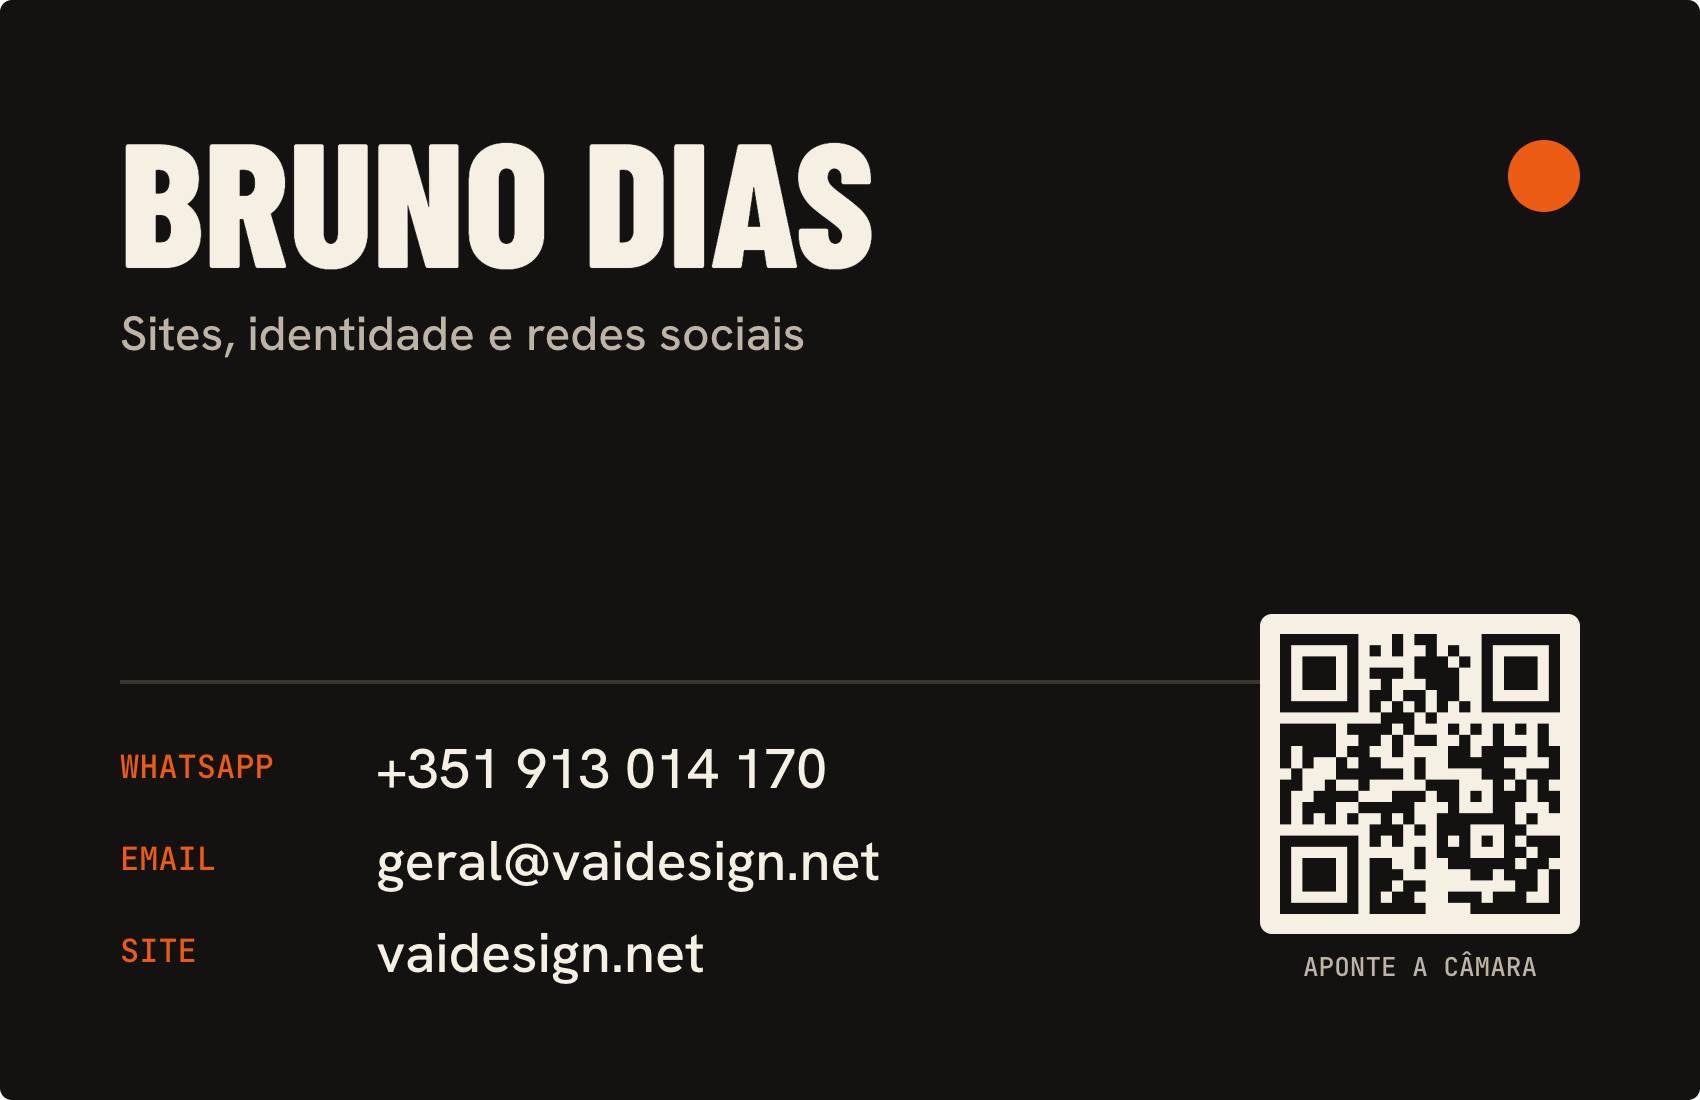
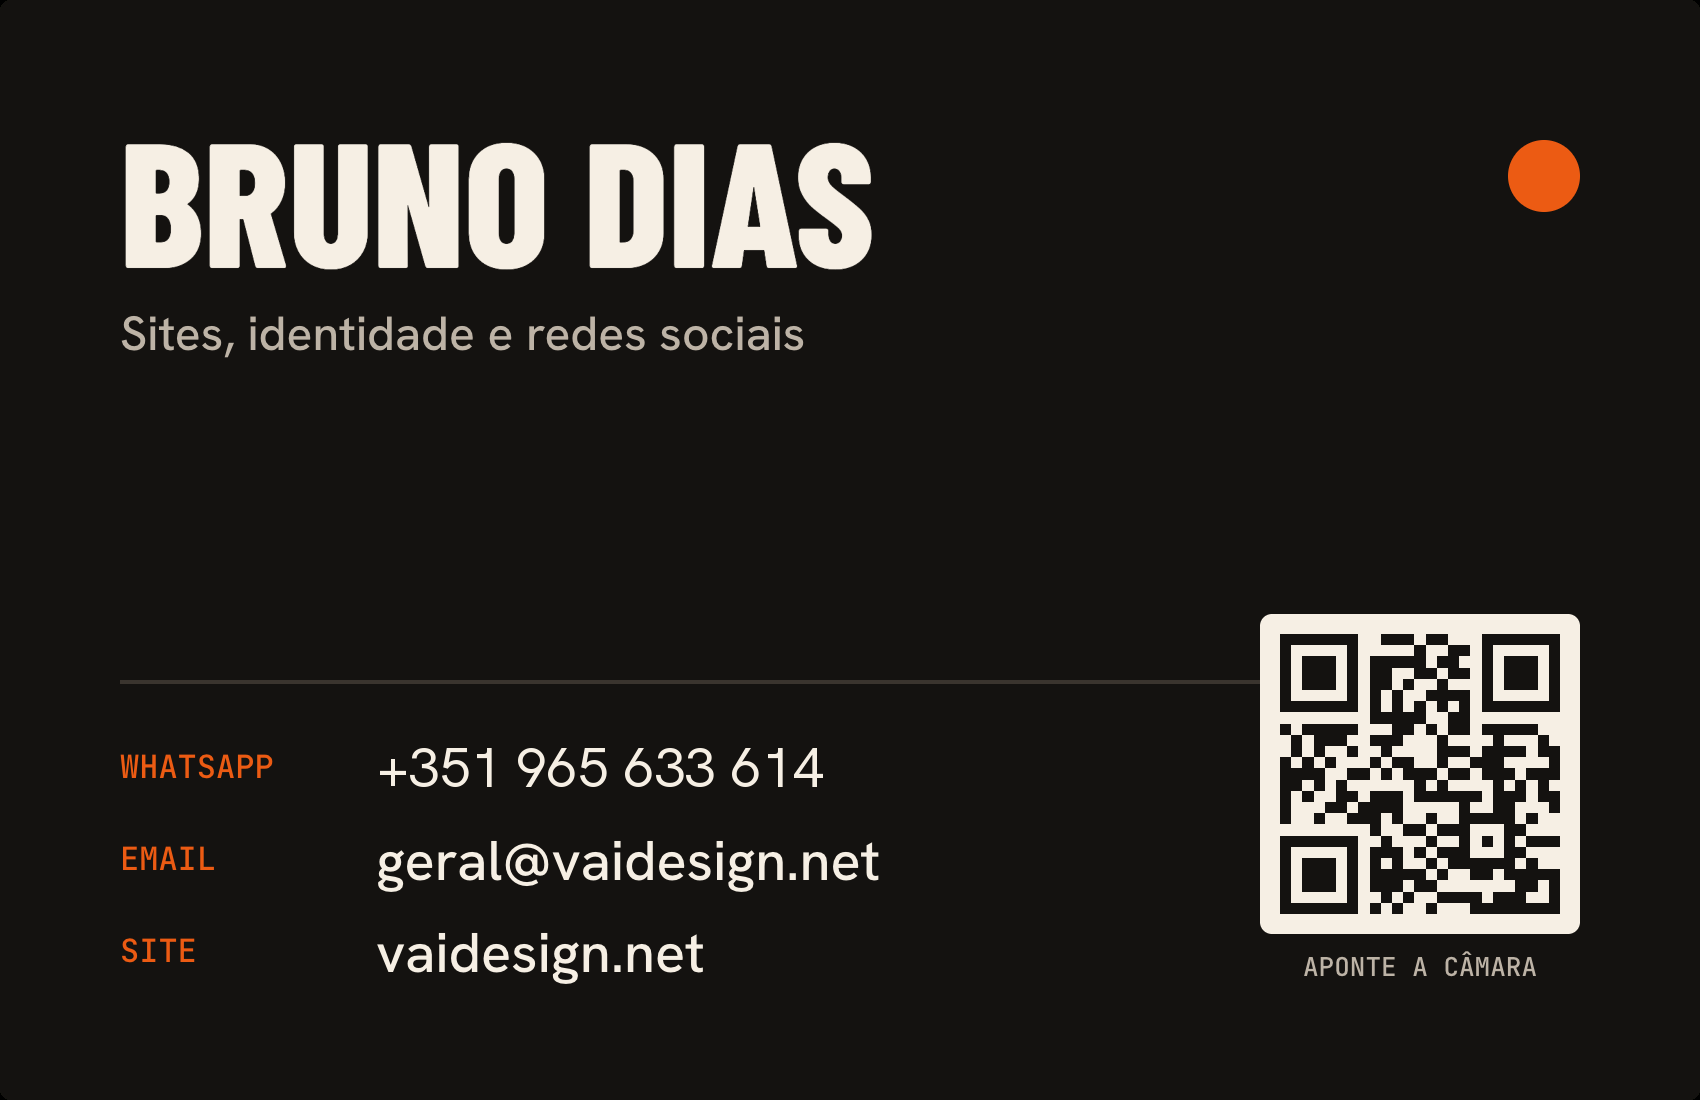
chore: switch agency WhatsApp to the new business number
Replace +351 913 014 170 with +351 965 633 614 in the site constants,
brand manual, business card back (text and QR), email signature image,
presentation deck and design notes.

Claude-Session: https://claude.ai/code/session_01ERPuTyWn5d7oHceJ5hZ3ze

diff --git a/desenhos/vaidesign/Marca.dc.html b/desenhos/vaidesign/Marca.dc.html
@@ -34,7 +34,7 @@
 <div style="position:absolute;left:28px;right:28px;bottom:28px;display:flex;flex-direction:column;gap:8px"><span style="font:800 56px/.9 'Barlow Condensed';text-transform:uppercase">Bruno Dias</span><span style="font:500 14px/1.3 'Hanken Grotesk';color:#5A5249">Sites, identidade e redes sociais à medida do seu negócio</span></div>
 </div>
 <div style="padding:8px 20px 28px;display:flex;flex-direction:column;gap:12px">
-<a href="https://wa.me/351913014170" style="height:64px;padding:0 10px 0 20px;display:flex;align-items:center;justify-content:space-between;background:#EC5B13;color:#141210;border-radius:8px;text-decoration:none"><span style="display:flex;flex-direction:column;gap:4px"><span style="font:600 12px/1 'Hanken Grotesk';letter-spacing:.1em;text-transform:uppercase">WhatsApp</span><span style="font:600 18px/1 'Hanken Grotesk'">+351 913 014 170</span></span><span style="width:44px;height:44px;border-radius:50%;border:1.5px solid #141210;display:flex;align-items:center;justify-content:center;box-sizing:border-box"><span style="font-family:'Material Symbols Outlined';font-weight:300;font-size:22px;line-height:1">arrow_forward</span></span></a>
+<a href="https://wa.me/351965633614" style="height:64px;padding:0 10px 0 20px;display:flex;align-items:center;justify-content:space-between;background:#EC5B13;color:#141210;border-radius:8px;text-decoration:none"><span style="display:flex;flex-direction:column;gap:4px"><span style="font:600 12px/1 'Hanken Grotesk';letter-spacing:.1em;text-transform:uppercase">WhatsApp</span><span style="font:600 18px/1 'Hanken Grotesk'">+351 965 633 614</span></span><span style="width:44px;height:44px;border-radius:50%;border:1.5px solid #141210;display:flex;align-items:center;justify-content:center;box-sizing:border-box"><span style="font-family:'Material Symbols Outlined';font-weight:300;font-size:22px;line-height:1">arrow_forward</span></span></a>
 <a href="mailto:geral@vaidesign.net" style="height:64px;padding:0 10px 0 20px;display:flex;align-items:center;justify-content:space-between;border:1.5px solid #141210;color:#141210;border-radius:8px;text-decoration:none;box-sizing:border-box"><span style="display:flex;flex-direction:column;gap:4px"><span style="font:600 12px/1 'Hanken Grotesk';letter-spacing:.1em;text-transform:uppercase">Email</span><span style="font:600 18px/1 'Hanken Grotesk'">geral@vaidesign.net</span></span><span style="width:44px;height:44px;border-radius:50%;border:1.5px solid #141210;display:flex;align-items:center;justify-content:center;box-sizing:border-box"><span style="font-family:'Material Symbols Outlined';font-weight:300;font-size:22px;line-height:1">arrow_forward</span></span></a>
 <a href="Inicio.dc.html" style="height:64px;padding:0 10px 0 20px;display:flex;align-items:center;justify-content:space-between;border:1.5px solid #141210;color:#141210;border-radius:8px;text-decoration:none;box-sizing:border-box"><span style="display:flex;flex-direction:column;gap:4px"><span style="font:600 12px/1 'Hanken Grotesk';letter-spacing:.1em;text-transform:uppercase">Site</span><span style="font:600 18px/1 'Hanken Grotesk'">vaidesign.net</span></span><span style="width:44px;height:44px;border-radius:50%;border:1.5px solid #141210;display:flex;align-items:center;justify-content:center;box-sizing:border-box"><span style="font-family:'Material Symbols Outlined';font-weight:300;font-size:22px;line-height:1">arrow_forward</span></span></a>
 <a href="#guardar-contacto" style="height:56px;display:flex;align-items:center;justify-content:center;gap:10px;background:#141210;color:#F6EFE4;border-radius:8px;text-decoration:none;font:600 14px/1 'Hanken Grotesk';letter-spacing:.06em;text-transform:uppercase"><span style="font-family:'Material Symbols Outlined';font-weight:300;font-size:22px;line-height:1;text-transform:none;letter-spacing:0">person_add</span>Guardar contacto</a>
@@ -54,11 +54,11 @@
 <div style="position:relative;width:850px;height:550px;background:#141210;color:#F6EFE4;overflow:hidden;border-radius:6px;padding:60px;box-sizing:border-box;display:flex;flex-direction:column;justify-content:space-between">
 <div style="display:flex;justify-content:space-between;align-items:flex-start"><div style="display:flex;flex-direction:column;gap:12px"><span style="font:800 88px/.9 'Barlow Condensed';text-transform:uppercase">Bruno Dias</span><span style="font:500 24px/1.3 'Hanken Grotesk';color:#BDB3A6">Sites, identidade e redes sociais</span></div><span style="width:36px;height:36px;border-radius:50%;background:#EC5B13;margin-top:10px"></span></div>
 <div style="display:flex;flex-direction:column;gap:18px;border-top:2px solid #3A342E;padding-top:28px;margin-right:200px;font:500 28px/1 'Hanken Grotesk'">
-<span style="display:flex;align-items:center;gap:18px"><span style="font:500 16px/1 'JetBrains Mono';color:#EC5B13;width:110px">WHATSAPP</span>+351 913 014 170</span>
+<span style="display:flex;align-items:center;gap:18px"><span style="font:500 16px/1 'JetBrains Mono';color:#EC5B13;width:110px">WHATSAPP</span>+351 965 633 614</span>
 <span style="display:flex;align-items:center;gap:18px"><span style="font:500 16px/1 'JetBrains Mono';color:#EC5B13;width:110px">EMAIL</span>geral@vaidesign.net</span>
 <span style="display:flex;align-items:center;gap:18px"><span style="font:500 16px/1 'JetBrains Mono';color:#EC5B13;width:110px">SITE</span>vaidesign.net</span>
 </div>
-<div style="position:absolute;right:60px;bottom:60px;display:flex;flex-direction:column;align-items:center;gap:10px"><div style="background:#F6EFE4;padding:10px;border-radius:6px"><img src="https://api.qrserver.com/v1/create-qr-code/?size=300x300&amp;margin=0&amp;color=141210&amp;bgcolor=F6EFE4&amp;data=https%3A%2F%2Fwa.me%2F351913014170" alt="QR code para o WhatsApp" style="width:140px;height:140px;display:block"></div><span style="font:500 13px/1 'JetBrains Mono';color:#BDB3A6">APONTE A CÂMARA</span></div>
+<div style="position:absolute;right:60px;bottom:60px;display:flex;flex-direction:column;align-items:center;gap:10px"><div style="background:#F6EFE4;padding:10px;border-radius:6px"><img src="https://api.qrserver.com/v1/create-qr-code/?size=300x300&amp;margin=0&amp;color=141210&amp;bgcolor=F6EFE4&amp;data=https%3A%2F%2Fwa.me%2F351965633614" alt="QR code para o WhatsApp" style="width:140px;height:140px;display:block"></div><span style="font:500 13px/1 'JetBrains Mono';color:#BDB3A6">APONTE A CÂMARA</span></div>
 </div></div>
 </div>
 </div>

diff --git a/public/vaidesign/marca/manual.html b/public/vaidesign/marca/manual.html
@@ -56,7 +56,7 @@
 <div style="position:absolute;left:28px;right:28px;bottom:28px;display:flex;flex-direction:column;gap:8px"><span style="font:800 56px/.9 'Barlow Condensed';text-transform:uppercase">Bruno Dias</span><span style="font:500 14px/1.3 'Hanken Grotesk';color:#5A5249">Sites, identidade e redes sociais à medida do seu negócio</span></div>
 </div>
 <div style="padding:8px 20px 28px;display:flex;flex-direction:column;gap:12px">
-<a href="https://wa.me/351913014170" style="height:64px;padding:0 10px 0 20px;display:flex;align-items:center;justify-content:space-between;background:#EC5B13;color:#141210;border-radius:8px;text-decoration:none"><span style="display:flex;flex-direction:column;gap:4px"><span style="font:600 12px/1 'Hanken Grotesk';letter-spacing:.1em;text-transform:uppercase">WhatsApp</span><span style="font:600 18px/1 'Hanken Grotesk'">+351 913 014 170</span></span><span style="width:44px;height:44px;border-radius:50%;border:1.5px solid #141210;display:flex;align-items:center;justify-content:center;box-sizing:border-box"><span style="font-family:'Material Symbols Outlined';font-weight:300;font-size:22px;line-height:1">arrow_forward</span></span></a>
+<a href="https://wa.me/351965633614" style="height:64px;padding:0 10px 0 20px;display:flex;align-items:center;justify-content:space-between;background:#EC5B13;color:#141210;border-radius:8px;text-decoration:none"><span style="display:flex;flex-direction:column;gap:4px"><span style="font:600 12px/1 'Hanken Grotesk';letter-spacing:.1em;text-transform:uppercase">WhatsApp</span><span style="font:600 18px/1 'Hanken Grotesk'">+351 965 633 614</span></span><span style="width:44px;height:44px;border-radius:50%;border:1.5px solid #141210;display:flex;align-items:center;justify-content:center;box-sizing:border-box"><span style="font-family:'Material Symbols Outlined';font-weight:300;font-size:22px;line-height:1">arrow_forward</span></span></a>
 <a href="mailto:geral@vaidesign.net" style="height:64px;padding:0 10px 0 20px;display:flex;align-items:center;justify-content:space-between;border:1.5px solid #141210;color:#141210;border-radius:8px;text-decoration:none;box-sizing:border-box"><span style="display:flex;flex-direction:column;gap:4px"><span style="font:600 12px/1 'Hanken Grotesk';letter-spacing:.1em;text-transform:uppercase">Email</span><span style="font:600 18px/1 'Hanken Grotesk'">geral@vaidesign.net</span></span><span style="width:44px;height:44px;border-radius:50%;border:1.5px solid #141210;display:flex;align-items:center;justify-content:center;box-sizing:border-box"><span style="font-family:'Material Symbols Outlined';font-weight:300;font-size:22px;line-height:1">arrow_forward</span></span></a>
 <a href="Inicio.dc.html" style="height:64px;padding:0 10px 0 20px;display:flex;align-items:center;justify-content:space-between;border:1.5px solid #141210;color:#141210;border-radius:8px;text-decoration:none;box-sizing:border-box"><span style="display:flex;flex-direction:column;gap:4px"><span style="font:600 12px/1 'Hanken Grotesk';letter-spacing:.1em;text-transform:uppercase">Site</span><span style="font:600 18px/1 'Hanken Grotesk'">vaidesign.net</span></span><span style="width:44px;height:44px;border-radius:50%;border:1.5px solid #141210;display:flex;align-items:center;justify-content:center;box-sizing:border-box"><span style="font-family:'Material Symbols Outlined';font-weight:300;font-size:22px;line-height:1">arrow_forward</span></span></a>
 <a href="#guardar-contacto" style="height:56px;display:flex;align-items:center;justify-content:center;gap:10px;background:#141210;color:#F6EFE4;border-radius:8px;text-decoration:none;font:600 14px/1 'Hanken Grotesk';letter-spacing:.06em;text-transform:uppercase"><span style="font-family:'Material Symbols Outlined';font-weight:300;font-size:22px;line-height:1;text-transform:none;letter-spacing:0">person_add</span>Guardar contacto</a>
@@ -76,11 +76,11 @@
 <div style="position:relative;width:850px;height:550px;background:#141210;color:#F6EFE4;overflow:hidden;border-radius:6px;padding:60px;box-sizing:border-box;display:flex;flex-direction:column;justify-content:space-between">
 <div style="display:flex;justify-content:space-between;align-items:flex-start"><div style="display:flex;flex-direction:column;gap:12px"><span style="font:800 88px/.9 'Barlow Condensed';text-transform:uppercase">Bruno Dias</span><span style="font:500 24px/1.3 'Hanken Grotesk';color:#BDB3A6">Sites, identidade e redes sociais</span></div><span style="width:36px;height:36px;border-radius:50%;background:#EC5B13;margin-top:10px"></span></div>
 <div style="display:flex;flex-direction:column;gap:18px;border-top:2px solid #3A342E;padding-top:28px;margin-right:200px;font:500 28px/1 'Hanken Grotesk'">
-<span style="display:flex;align-items:center;gap:18px"><span style="font:500 16px/1 'JetBrains Mono';color:#EC5B13;width:110px">WHATSAPP</span>+351 913 014 170</span>
+<span style="display:flex;align-items:center;gap:18px"><span style="font:500 16px/1 'JetBrains Mono';color:#EC5B13;width:110px">WHATSAPP</span>+351 965 633 614</span>
 <span style="display:flex;align-items:center;gap:18px"><span style="font:500 16px/1 'JetBrains Mono';color:#EC5B13;width:110px">EMAIL</span>geral@vaidesign.net</span>
 <span style="display:flex;align-items:center;gap:18px"><span style="font:500 16px/1 'JetBrains Mono';color:#EC5B13;width:110px">SITE</span>vaidesign.net</span>
 </div>
-<div style="position:absolute;right:60px;bottom:60px;display:flex;flex-direction:column;align-items:center;gap:10px"><div style="background:#F6EFE4;padding:10px;border-radius:6px"><img src="https://api.qrserver.com/v1/create-qr-code/?size=300x300&amp;margin=0&amp;color=141210&amp;bgcolor=F6EFE4&amp;data=https%3A%2F%2Fwa.me%2F351913014170" alt="QR code para o WhatsApp" style="width:140px;height:140px;display:block"></div><span style="font:500 13px/1 'JetBrains Mono';color:#BDB3A6">APONTE A CÂMARA</span></div>
+<div style="position:absolute;right:60px;bottom:60px;display:flex;flex-direction:column;align-items:center;gap:10px"><div style="background:#F6EFE4;padding:10px;border-radius:6px"><img src="https://api.qrserver.com/v1/create-qr-code/?size=300x300&amp;margin=0&amp;color=141210&amp;bgcolor=F6EFE4&amp;data=https%3A%2F%2Fwa.me%2F351965633614" alt="QR code para o WhatsApp" style="width:140px;height:140px;display:block"></div><span style="font:500 13px/1 'JetBrains Mono';color:#BDB3A6">APONTE A CÂMARA</span></div>
 </div></div>
 </div>
 </div>

diff --git a/desenhos/vaidesign/Assinatura de email.html b/desenhos/vaidesign/Assinatura de email.html
@@ -8,8 +8,8 @@
 <body style="margin:0;padding:32px 16px;background-color:#FFFFFF;">
 <!-- ASSINATURA · início -->
 <table cellpadding="0" cellspacing="0" border="0" role="presentation" style="width:100%;max-width:600px;border-collapse:collapse;">
-<tr><td style="padding:0;"><a href="https://vaidesign.net" style="text-decoration:none;"><img src="assets/assinatura-vaidesign.png" width="600" alt="Bruno Dias · VaiDesign · WhatsApp +351 913 014 170 · vaidesign.net · @agenciavaidesign" style="display:block;width:100%;max-width:600px;height:auto;border:0;border-radius:12px;"></a></td></tr>
-<tr><td style="padding:10px 0 0 4px;font-family:-apple-system,'Segoe UI',Roboto,Arial,sans-serif;font-size:13px;line-height:20px;color:#5A5249;"><a href="https://wa.me/351913014170" style="color:#BA4100;text-decoration:none;font-weight:600;">WhatsApp</a>&nbsp;&nbsp;·&nbsp;&nbsp;<a href="https://vaidesign.net" style="color:#BA4100;text-decoration:none;font-weight:600;">Site</a>&nbsp;&nbsp;·&nbsp;&nbsp;<a href="https://instagram.com/agenciavaidesign" style="color:#BA4100;text-decoration:none;font-weight:600;">Instagram</a></td></tr>
+<tr><td style="padding:0;"><a href="https://vaidesign.net" style="text-decoration:none;"><img src="assets/assinatura-vaidesign.png" width="600" alt="Bruno Dias · VaiDesign · WhatsApp +351 965 633 614 · vaidesign.net · @agenciavaidesign" style="display:block;width:100%;max-width:600px;height:auto;border:0;border-radius:12px;"></a></td></tr>
+<tr><td style="padding:10px 0 0 4px;font-family:-apple-system,'Segoe UI',Roboto,Arial,sans-serif;font-size:13px;line-height:20px;color:#5A5249;"><a href="https://wa.me/351965633614" style="color:#BA4100;text-decoration:none;font-weight:600;">WhatsApp</a>&nbsp;&nbsp;·&nbsp;&nbsp;<a href="https://vaidesign.net" style="color:#BA4100;text-decoration:none;font-weight:600;">Site</a>&nbsp;&nbsp;·&nbsp;&nbsp;<a href="https://instagram.com/agenciavaidesign" style="color:#BA4100;text-decoration:none;font-weight:600;">Instagram</a></td></tr>
 </table>
 <!-- ASSINATURA · fim -->
 </body>

diff --git a/desenhos/vaidesign/Assinatura Imagem.dc.html b/desenhos/vaidesign/Assinatura Imagem.dc.html
@@ -22,7 +22,7 @@
 <span style="font:500 13px/1.3 'Hanken Grotesk';color:#5A5249">Sites, marca e redes sociais à medida</span>
 </div>
 <div style="display:flex;flex-direction:column;border-top:1.5px solid #141210">
-<div style="display:grid;grid-template-columns:92px 1fr;align-items:center;height:24px;border-bottom:1px solid #DDD2C0"><span style="font:500 10px/1 'JetBrains Mono';letter-spacing:.14em;color:#BA4100">WHATSAPP</span><span style="font:600 13px/1 'Hanken Grotesk';color:#141210">+351 913 014 170</span></div>
+<div style="display:grid;grid-template-columns:92px 1fr;align-items:center;height:24px;border-bottom:1px solid #DDD2C0"><span style="font:500 10px/1 'JetBrains Mono';letter-spacing:.14em;color:#BA4100">WHATSAPP</span><span style="font:600 13px/1 'Hanken Grotesk';color:#141210">+351 965 633 614</span></div>
 <div style="display:grid;grid-template-columns:92px 1fr;align-items:center;height:24px;border-bottom:1px solid #DDD2C0"><span style="font:500 10px/1 'JetBrains Mono';letter-spacing:.14em;color:#BA4100">SITE</span><span style="font:600 13px/1 'Hanken Grotesk';color:#141210">vaidesign.net</span></div>
 <div style="display:grid;grid-template-columns:92px 1fr;align-items:center;height:24px"><span style="font:500 10px/1 'JetBrains Mono';letter-spacing:.14em;color:#BA4100">INSTAGRAM</span><span style="font:600 13px/1 'Hanken Grotesk';color:#141210">@agenciavaidesign</span></div>
 </div>

diff --git a/src/lib/vaidesign/agencia.ts b/src/lib/vaidesign/agencia.ts
@@ -3,8 +3,8 @@
  *
  * Ficam num sítio só para não andarem espalhados pelas cinco páginas. O
  * endereço de email já vem escrito no desenho (`geral@vaidesign.net`) e é esse
- * que está a receber; o número veio do manual de marca, da folha do cartão de
- * visita — é o número feito para ser impresso e lido por quem quiser ligar.
+ * que está a receber; o número é o do WhatsApp Business da agência (eSIM MEO),
+ * o mesmo do cartão de visita e da assinatura.
  */
 
 /**
@@ -18,10 +18,10 @@
  * Num email é outra coisa: aí o número é para ser visto e usado por quem o
  * recebeu.
  */
-export const WHATSAPP_DA_AGENCIA: string | null = '351913014170';
+export const WHATSAPP_DA_AGENCIA: string | null = '351965633614';
 
 /** O mesmo número, escrito como se lê em voz alta. Mesma regra. */
-export const TELEFONE_DA_AGENCIA = '+351 913 014 170';
+export const TELEFONE_DA_AGENCIA = '+351 965 633 614';
 
 /** A porta do WhatsApp no site. Não leva número nenhum. */
 export const PORTA_DO_WHATSAPP = '/wa';

diff --git a/src/lib/vaidesign/pedidos/mensagem.ts b/src/lib/vaidesign/pedidos/mensagem.ts
@@ -67,7 +67,7 @@ export function enderecoDeEmail(para: string, v: Partial<PedidoLido>): string {
  * O endereço do WhatsApp visto do SITE: a porta, e o recado de lado.
  *
  * Não leva número. O número só existe no servidor, atrás de `/wa` — um botão
- * com `wa.me/351913014170` dentro do HTML entrega o número a qualquer robô que
+ * com `wa.me/351965633614` dentro do HTML entrega o número a qualquer robô que
  * leia a página, e tirá-lo do texto visível deixando-o no link era esconder a
  * chave debaixo do tapete.
  */

diff --git a/src/lib/vaidesign/pedidos/campos.ts b/src/lib/vaidesign/pedidos/campos.ts
@@ -74,7 +74,7 @@ export function lerPedido(dados: FormData): PedidoLido {
  * um número de telefone.
  *
  * Não se valida o formato de um telefone a sério, e é de propósito: alguém
- * que escreva "913 014 170" ou "+351 913014170" ou "913014170 (chamar depois
+ * que escreva "965 633 614" ou "+351 965633614" ou "965633614 (chamar depois
  * das 18h)" quer ser contactado, e recusar-lhe o formulário por causa de um
  * espaço é perder um cliente para provar um ponto. Nove dígitos é o mínimo de
  * um número português.

diff --git a/src/app/wa/route.ts b/src/app/wa/route.ts
@@ -4,7 +4,7 @@ import { WHATSAPP_DA_AGENCIA } from '@/lib/vaidesign/agencia';
 /**
  * A porta do WhatsApp, para o número não andar escrito no site.
  *
- * Um botão que aponta directamente a `wa.me/351913014170` tem o número dentro
+ * Um botão que aponta directamente a `wa.me/351965633614` tem o número dentro
  * do HTML, e um robô que leia a página apanha-o tão bem como uma pessoa. Tirar
  * o número do texto visível e deixá-lo no `href` era esconder a chave debaixo
  * do tapete.

diff --git a/desenhos/vaidesign/assinatura-pedido.md b/desenhos/vaidesign/assinatura-pedido.md
@@ -50,12 +50,12 @@ O conteúdo, por esta ordem:
   Bruno Dias
   Sites e marketing para quem vive do seu negócio
 
-  WhatsApp +351 913 014 170
+  WhatsApp +351 965 633 614
   geral@vaidesign.net
   vaidesign.net
   @agenciavaidesign
 
-O WhatsApp é link para https://wa.me/351913014170
+O WhatsApp é link para https://wa.me/351965633614
 O email é link para mailto:geral@vaidesign.net
 O site é link para https://vaidesign.net
 O Instagram é link para https://instagram.com/agenciavaidesign

diff --git a/desenhos/vaidesign/README.md b/desenhos/vaidesign/README.md
@@ -34,5 +34,5 @@ O manual traz três peças e só uma é código por agora — nenhuma.
   essa página, e o botão "Guardar contacto" devolve um ficheiro `.vcf` que o
   telemóvel abre na agenda. Por fazer.
 
-O número que está no cartão — `+351 913 014 170` — é o que os botões de
+O número que está no cartão — `+351 965 633 614` — é o que os botões de
 WhatsApp do site usam, em `src/lib/vaidesign/agencia.ts`.

diff --git a/desenhos/vaidesign/apresentacao-pedido.md b/desenhos/vaidesign/apresentacao-pedido.md
@@ -168,7 +168,7 @@ Texto:
 
 Contactos, grandes e legíveis:
 
-- WhatsApp **+351 913 014 170**
+- WhatsApp **+351 965 633 614**
 - **geral@vaidesign.net**
 - **vaidesign.net**
 - Instagram **@agenciavaidesign**
